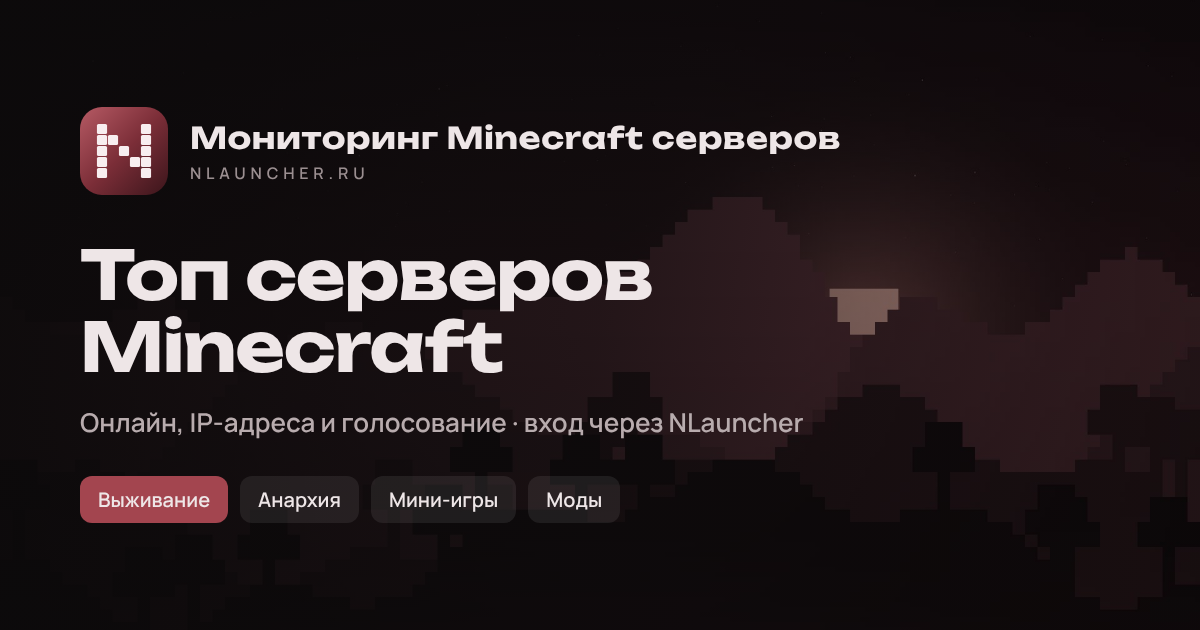
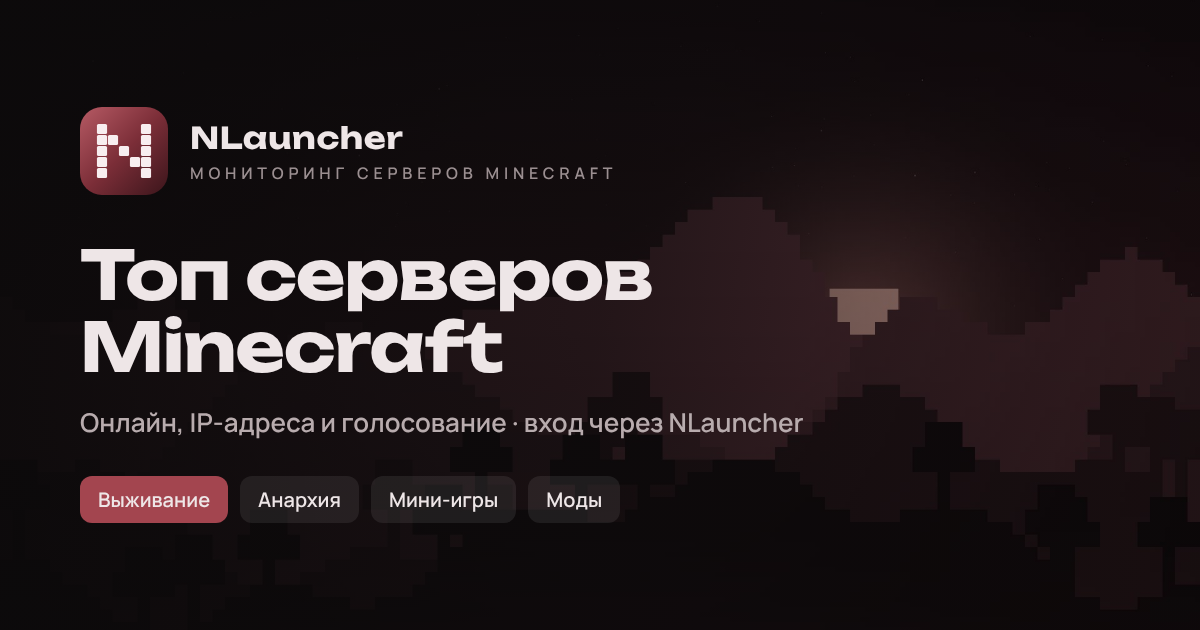
Сайт: название NLauncher, подпись «Мониторинг серверов Minecraft»
Любое сохранённое название с NeoDev в базе заменяется на NLauncher при
запуске. NeoDev остался только в футере: «При поддержке NeoDev».

Claude-Session: https://claude.ai/code/session_01KiQT2xVbrX25yyMSVNkQBk

Changed region(s): [[0.1542, 0.181, 0.7092, 0.3016]]

diff --git a/site/src/views/layout.js b/site/src/views/layout.js
@@ -80,7 +80,7 @@ function layout(req, { title, body, wide = false, flash = '', description = '', 
   const u = req.user;
   const path = (req.baseUrl || '') + req.path; // внутри роутеров (/admin, /cabinet) req.path относительный
   const closed = noindex || PRIVATE.test(path);
-  const fullTitle = title ? `${title} — ${site}` : `${site} — топ, IP-адреса и онлайн`;
+  const fullTitle = title ? `${title} — ${site}` : `${site} — мониторинг серверов Minecraft`;
   const desc = (description || DEFAULT_DESC).replace(/\s+/g, ' ').trim().slice(0, 300);
   const url = abs(canonical || path);
   const img = abs(image || '/assets/og-image.png');
@@ -127,7 +127,7 @@ function layout(req, { title, body, wide = false, flash = '', description = '', 
   <div class="bg" aria-hidden="true"><div class="bg-img"></div></div>
   <header class="top">
     <div class="wrap top-in">
-      <a href="/" class="brand"><img class="logo" src="/assets/logo-mark.svg" alt="" /><span><b>${site}</b><small>топ · онлайн · голосование</small></span></a>
+      <a href="/" class="brand"><img class="logo" src="/assets/logo-mark.svg" alt="" /><span><b>${site}</b><small>Мониторинг серверов Minecraft</small></span></a>
       <nav class="nav">
         ${nav('/', 'Топ серверов')}
         ${nav('/servera/', 'Подборки')}
@@ -152,7 +152,7 @@ function layout(req, { title, body, wide = false, flash = '', description = '', 
     ${body}
   </main>
   <footer class="foot wrap">
-    <span>© ${new Date().getFullYear()} ${site} · <span class="nowrap">При поддержке <a href="https://neo-dev.ru" target="_blank" rel="noopener">NeoDev</a></span></span>
+    <span>© ${new Date().getFullYear()} ${site} — мониторинг серверов Minecraft · <span class="nowrap">При поддержке <a href="https://neo-dev.ru" target="_blank" rel="noopener">NeoDev</a></span></span>
     <span class="muted">Не является официальным продуктом Minecraft. Не одобрено и не связано с Mojang или Microsoft.</span>
   </footer>
   ${metrics.enabled ? html`<div class="cookie" id="cookie" hidden><span>Мы используем cookie и сервисы веб-аналитики, чтобы сайт работал лучше. Продолжая пользоваться сайтом, вы соглашаетесь с этим.</span><button class="btn primary sm" id="cookieOk">Понятно</button></div>` : ''}

diff --git a/site/src/db.js b/site/src/db.js
@@ -179,7 +179,7 @@ const insP = db.prepare('INSERT OR IGNORE INTO products (code, kind, title, desc
 for (const p of DEFAULT_PRODUCTS) insP.run(...p);
 
 const DEFAULT_SETTINGS = {
-  site_name: 'Мониторинг Minecraft серверов',
+  site_name: 'NLauncher',
   site_url: process.env.SITE_URL || 'http://localhost:3000',
   yoomoney_wallet: '',
   yoomoney_secret: '',
@@ -190,8 +190,8 @@ const DEFAULT_SETTINGS = {
 };
 const insS = db.prepare('INSERT OR IGNORE INTO settings (key, value) VALUES (?, ?)');
 for (const [k, v] of Object.entries(DEFAULT_SETTINGS)) insS.run(k, v);
-// Старое название по умолчанию меняем на новое (если админ не задавал своё)
-db.prepare("UPDATE settings SET value = ? WHERE key = 'site_name' AND value = 'NeoDev Мониторинг'").run(DEFAULT_SETTINGS.site_name);
+// Старые названия по умолчанию меняем на NLauncher (NeoDev — только «при поддержке»)
+db.prepare("UPDATE settings SET value = ? WHERE key = 'site_name' AND (value LIKE '%NeoDev%' OR value LIKE '%neodev%' OR value = 'Мониторинг Minecraft серверов')").run(DEFAULT_SETTINGS.site_name);
 
 const now = () => Date.now();
 const DAY = 86400000;

diff --git a/site/src/server.js b/site/src/server.js
@@ -1,4 +1,4 @@
-// Мониторинг Minecraft серверов — сервер приложения
+// NLauncher — мониторинг серверов Minecraft, сервер приложения
 const fs = require('fs');
 const path = require('path');
 const crypto = require('crypto');
@@ -1024,7 +1024,7 @@ auth.bootstrapAdmin();
 if (process.env.NODE_ENV !== 'test') {
   pinger.start();
   stats.start();
-  app.listen(PORT, () => console.log(`Мониторинг: http://localhost:${PORT}`));
+  app.listen(PORT, () => console.log(`NLauncher, мониторинг: http://localhost:${PORT}`));
 }
 
 module.exports = app;

diff --git a/site/src/views/public.js b/site/src/views/public.js
@@ -62,7 +62,7 @@ function home(req, { servers, banner, stats, q, tag, tags, news }) {
     body: html`
     <section class="hero">
       <div class="hero-in">
-        <span class="eyebrow">Мониторинг серверов Minecraft</span>
+        <span class="eyebrow">Мониторинг NLauncher</span>
         <h1>${h1}</h1>
         <p class="muted">Онлайн в реальном времени, честное голосование и быстрый вход через NLauncher.</p>
         <form class="hero-search" method="get" action="/">

diff --git a/site/README.md b/site/README.md
@@ -1,4 +1,4 @@
-# Мониторинг Minecraft серверов
+# NLauncher — мониторинг серверов Minecraft
 
 Сайт работает при поддержке [NeoDev](https://neo-dev.ru).
 
